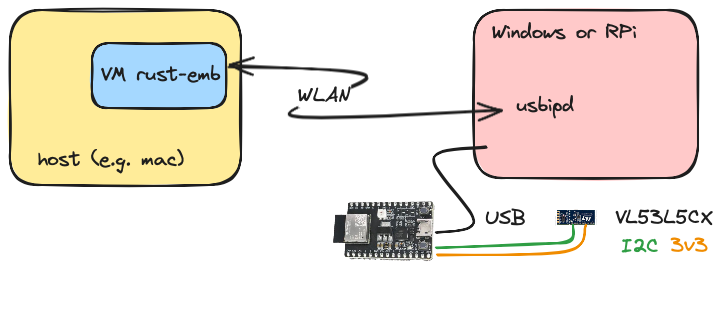
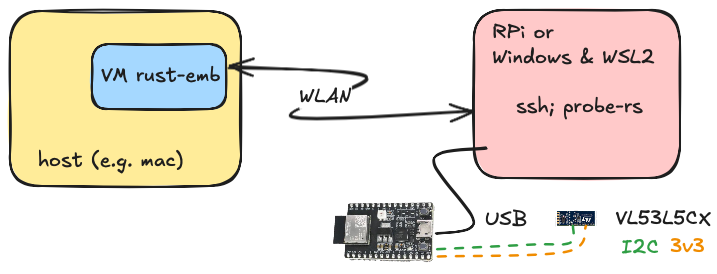
Revised the README for 'probe-rs' over ssh

diff --git a/README.md b/README.md
@@ -1,18 +1,24 @@
 # Embedded Zoo - Sensors and Actuators 
 
-## ..with [Rust](https://www.rust-lang.org) and [Embassy](https://embassy.dev)
+..for [Rust](https://www.rust-lang.org) and [Embassy](https://embassy.dev).
 
 <!-- tbd. Zoo picture & styling -->
 
 It's quite elaborate to take in new sensors to a project. It's about:
 
 - selecting the right part(s)
-   - considering sourcability, price, features
+   - considering availability, price, features
 - reading the documentation
 - ensuring drivers fit
 - learning the quirks that are not necessarily documented, anywhere
 
-This repo covers various sensors (things that measure stuff) and actuators (things that make other things move), interesting to its author, and provides reliable, maintained Rust (Embassy) bindings to them.
+This repo covers various sensors (things that measure stuff) and actuators (things that move stuff), interesting to its author, and provides reliable, maintained Rust (Embassy) bindings to them.
+
+>**Why Embassy?**
+>
+>Rust provides `async/await` support, similar to what we've become used to in the JavaScript world, by now (2025). Embassy is an executor for `async` functions; and an ecosystem of other, related stuff.
+>
+>In short, it's GREAT! Making async code allows concurrency to be coded as if it was linear. This is a huge boost to speed of coding and the readability (read: maintainability!) of the code. Thus, Embassy is a foundational component for this repo.
 
 
 ## Menu
@@ -23,7 +29,7 @@ This repo covers various sensors (things that measure stuff) and actuators (thin
 |![](.images/about/ble.png)|[`comms/ble`](comms/ble/README.md)|Working as custom Bluetooth (BLE) service|alpha||
 |**Display**|
 |![](.images/about/chip-with-rgb.png)|[`display/rgb`](display/rgb/README.md)|RGB LED available on most dev boards|WIP||
-|**DC&nbsp;motors &&nbsp;controllers** (brushed)|
+|**Brushed&nbsp;DC&nbsp;motor&nbsp;controllers**|
 |![](.images/about/drv8871.png)|[`dc-motors/drv8871`](dc-motors/drv8871/README.md)|Controller for brushed (simple) DC motors - 6.5..45V, 3.6A max|WIP||
 |**Time of flight** = distance sensors|
 |![](.images/about/vl53l5cx_uld.png)|[`tof/vl53l5cx_uld`](tof/vl53l5cx_uld/README.md)|Time-of-flight distance sensor; 4x4 (60Hz) or 8x8 (15Hz), up to 400cm|beta||
@@ -37,26 +43,32 @@ The repo **focuses on ESP32 series MCU's**, but this is mainly so that the state
 |---|---|---|---|
 |ESP32&#x2011;C3|[ESP32&#x2011;C3-DevKitC-02](https://docs.espressif.com/projects/esp-dev-kits/en/latest/esp32c3/esp32-c3-devkitc-02/user_guide.html)|used regularly|See below.|
 |ESP32&#x2011;C6|[ESP32-C6-DevKitM-01](https://docs.espressif.com/projects/esp-dev-kits/en/latest/esp32c6/esp32-c6-devkitm-1/user_guide.html)|used regularly|No problems!|
+
+<!-- #hidden
 |(ESP32)|[Adafruit ESP32 Feather V2](https://www.adafruit.com/product/5400)|2nd tier|ESP32 code is in a branch that's updated *on request*.<br />Rust support for Xtensa (which this one is) still needs a separate `espup` utility, unlike RISC V targets, and `stable` Rust cannot be used on it. This is only an initial speed bump, however. Instructions for setting up the toolchain are in the particular branch.<br />*Doesn't have built-in JTAG* support so you'll need to purchase an adapter, e.g. [ESP-Prog](https://docs.espressif.com/projects/esp-iot-solution/en/latest/hw-reference/ESP-Prog_guide.html), for debug logging.|
+-->
 
 >Note: The repo does debug logs using [defmt](https://defmt.ferrous-systems.com) which means JTAG support is highly recommended, for any development work.
 
 #### ESP32-C3 considerations!!
 
-- To use JTAG, you'll need to solder a USB wire. Otherwise, the chip itself does provide a built in USB/JTAG circuitry (just like ESP32-C6 does).
+- The chip does provide a built in USB/JTAG circuitry (just like ESP32-C6 does), but the suggested devkit doesn't have a connector for it. You can solder one, or (perhaps preferred), attach a cable to breakout pins on a breadboard. *tbd. image pending*
 
-- I2C functionality - and possibly other time sensitive functionality - is known to suffer from a JTAG *specification issue* that affects `probe-rs`'s ability to interface with the chip. There used to be a "fix" for this in `probe-rs` but that wasn't kept in the code base. If you need long I2C communications, ESP32-C6 is the better chip to target.
+	<!-- tbd. image! -->
 
-	Note: The problem only involves debugging (over JTAG). You can quite well do long I2C transactions in production.
+- I2C functionality - and possibly other time sensitive functionality - is known to suffer from a JTAG *specification issue* that affects `probe-rs`'s ability to interface with the chip. If you need long I2C communications, ESP32-C6 is the better chip to target.
 
+	Note: The problem only involves debugging/logging over JTAG. You can quite well do long I2C transactions in production.
+
+<!-- remove? / #hidden
 #### ESP32 considerations!!
 
 The support will be available as a separate branch, because it needs more changes than simply changing the `target` (`.cargo/config.toml`) and `feature` (`Config.toml`) that our chip selection script manages.
-
+-->
 
 ## Changing the target
 
-Projects such as `esp-hal` use the Rust feature mechanism for selecting the target MCU (e.g. `esp32c3` vs. `esp32c6`). While this seems to be the norm, this repo deviates from it.
+Projects such as `esp-hal` use Cargo [features mechanism](https://doc.rust-lang.org/cargo/reference/features.html) for selecting the target MCU (e.g. `esp32c3` vs. `esp32c6`). While this seems to be the norm, this repo deviates from it.
 
 The main reason is philosophical. Features should be used for - well - features of the code base, and they should be cumulative (by the Rust recommendations). MCU features, on the other hand, are exclusive.
 
@@ -120,51 +132,50 @@ Each sensor's subsection has a `WIRING.md` that shows suggested wiring. You can 
 
 The repo can be used in many ways. The setup the author prefers is shown above.
 
-- Code editing happens on a host (Mac), using an IDE (Rust Rover)
+- Code editing happens on a host (Mac), using an IDE ([Rust Rover](https://www.jetbrains.com/rust/))
 - Compilation happens in a virtual machine (using [Multipass](https://multipass.run) for this); the whole Rust and embedded toolchain *only needs to be installed within here*.
-- Hardware devices (MCU + sensors) are connected to *another PC* that runs `usbipd` (a USB/IP server).
+- Hardware devices (MCU + sensors) are connected to *a Raspberry Pi* that runs `ssh` and has [`probe-rs`](https://probe.rs) installed.
 
 >Note: Due to using WLAN, the software development and hardware setups are fully air-gapped from each other.
 
-#### Shortcomings of USB/IP over Ethernet
+<p />
 
-- Programming the boards (ESP32-C3, ESP32-C6) is considerably slower than in a comparison case (USB/IP to WSL2):
-
-   ||flash speed|..seconds|
-   |---|---|---|---|
-   |USB/IP between computers|2..3 KiB/s|~30..40|
-   |USB/IP to WSL2|~20 KiB/s|~5..6|
-
-
-<!-- VM + USB/IP (reference):
-probe-rs run --log-format '{t:dimmed} [{L:bold}] {s}' target/riscv32imac-unknown-none-elf/release/examples/multiboard
-      Erasing ✔ [00:00:02] [####################################################################################################################] 256.00 KiB/256.00 KiB @ 92.27 KiB/s (eta 0s )
-  Programming ✔ [00:00:44] [#####################################################################################################################] 107.53 KiB/107.53 KiB @ 2.41 KiB/s (eta 0s )    Finished in 44.580067s
--->
-
-<!-- WSL2 (reference) 
-tbd.
--->
+>Note: Originally, the author used USB/IP for the setup. This, however, leads to very slow flash times. Using `probe-rs` over `ssh` just takes 4 seconds for an average flash.
 
 #### Shortcomings of Multipass
 
-- You cannot bind USB devices to the VM; that's why we use USB/IP. With other virtualization tools, you could virtually attach the development kit directly.
+It's developed by Canonical, but doesn't have as much resources as some other (commercial) virtualization products. Also, it doesn't have USB pass-through but since we anyways prefer airgapping over WLAN, that's not really an issue.
 
-- `[solved]` Mounting folders with lots of small files (Cargo's `target` folder) is slow.
+>Note! Since 1.14.0, the author has found Multipass to be somewhat more fragile than before. This is, however, under control, and should not keep you from using the solution. More info is available in the [`mp´](https://github.com/akauppi/mp) repo.
 
-	The `mp` setup now uses a joint `~/target` folder for all the projects. This works, and having the files within the VM file system (as opposed to mapped to the host) speeds up `cargo` operations essentially (factor of 20..40!).
+#### Running on a single computer?
 
-#### Conclusion: your setup!
+Fully possible. You just point `ssh` to point to your host, from the VM, and have `probe-rs` installed on the host.
 
-If you have only a single computer, that's fine. Plug the USB's to it; install stuff natively. Or use a virtualization setup that shares the USB ports. Or install Multipass on the *same* computer where your devices are.
+Again, the benefit is that your Rust / embedded toolchains are sandboxed. Only `probe-rs` remains on the host, and is easy to install and update there.
 
-What's important is that the development environment will only be maintained in Linux (Ubuntu). This is where Multipass comes in so handy, providing support for all macOS, Windows and Linux desktop OSes.
 
->Note: If you run WSL2, that's fine (it is Ubuntu, after all). The author occasionally does this (his second platform).
+#### Windows + WSL2
 
-<div >
+Should probably write a whole new section on WSL2... Since it's Ubuntu to begin with, and sandboxed (kind of; not as much as Multipass), the author **only uses WSL2** and not Multipass on his Windows 10 laptop.
 
->Note: For running Multipass on Windows, please note that only Windows Pro has Hyper-V hypervisor support. You *can* run Multipass with Windows Home, but the author rather uses WSL2.
+Also, `probe-rs` in this case is installed within the WSL2 VM, and accesses the devkit via USB/IP. USB/IP between a Windows host and WSL2 is *very smooth* and there's no reason for the `ssh` stuff.
+
+This scenario is ideal if you want to work on a single computer, e.g. for taking demos out on the field a Windows laptop is sufficient!
+
+#### Multipass and Windows
+
+For running Multipass on Windows, please note that **only Windows Pro has Hyper-V** hypervisor support. The author hasn't run Multipass on Windows (since WSL2 is there) but if he would, he'd pick a Pro license. You *can* run Multipass with Windows Home, but that involves VirtualBox 👎. Unless.. <sub>[hint](https://github.com/canonical/multipass/issues/1810), [hint#2](https://medium.com/@antongslismith/multipass-with-hyper-v-on-windows-10-home-7fd783d83978)</sub>
+
+---
+
+As you can see, there are some different ways to set up the toolchain.
+
+What's important to take home from this is that
+
+🅰 The ZOO runs on Ubuntu Linux only. With virtualization, however, this should not limit your choices.
+
+🅱 `probe-rs` is the tool of choice for interacting with your development kit. The build scripts don't care whether such command leads to USB/IP or a `ssh`-bridged installation.
 
 Good luck! ☀☀☀
 
@@ -172,14 +183,23 @@ Good luck! ☀☀☀
 
 ## Requirements (software)
 
-### Basic `rust+emb` setup
+These two repos help you to set up the environment discussed above:
 
-The subfolders expect you to have a virtual machine prepped with the `rust+emb/prep.sh` command of the [`akauppi/mp`](https://github.com/akauppi/mp) repo.
+- [`mp:/rust+emb`](https://github.com/akauppi/mp)
 
-Using `mp` allows you to easily re-create a Rust (and Embassy) capable VM, if you need to.
+	Helps you create a Multipass VM that has the tools (Rust, Cargo, `probe-rs-remote`) used in the ZOO.
+	
+	This doesn't cover exactly *all* the tools, but gives a solid foundation. If additional tools are needed, they are mentioned in the subfolder `README`s (for example, the `tof/vl53l5cx_uld` needs `clang` and `bindgen` CLI to be separately installed).
 
->Note: If you don't like using Multipass, you can try other approaches. See the shell scripts within the `mp` repo to find out, how to install tooling. Using a VM sandboxes your development environment from your main account, which is the reason the author prefers it. If you do things differently, you are on your own. :)
 
+- [`probe-rs-remote`](https://github.com/lure23/probe-rs-remote)
+
+	The `probe-rs` over `ssh` bridging.
+	
+	Follow these instructions to set up your Raspberry Pi (or other such secondary computer) that runs `probe-rs`.
+	
+	>Note: The front side setup is not needed if you use `mp` `rust+emb/prep.sh` - it's already covered there.
+	
 
 ## Support files
 
@@ -198,8 +218,8 @@ Each of the folders may contain such files / subfolders:
 Developed on:
 
 ```
-macOS 15.0
-Multipass 1.14.1
+macOS 15.2
+Multipass 1.15.0
 ESP32-C3-Devkit-C02 (revision 0.4) 
 ESP32-C6-DevKitM-1
 ```
